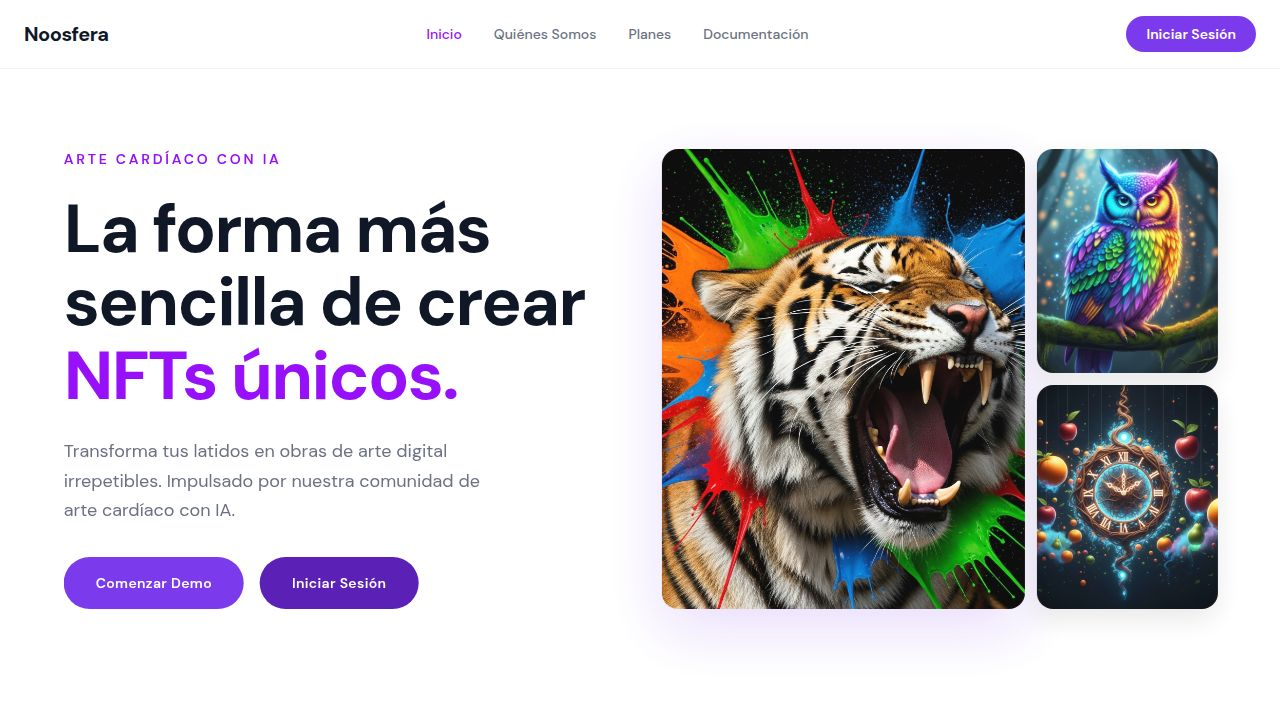
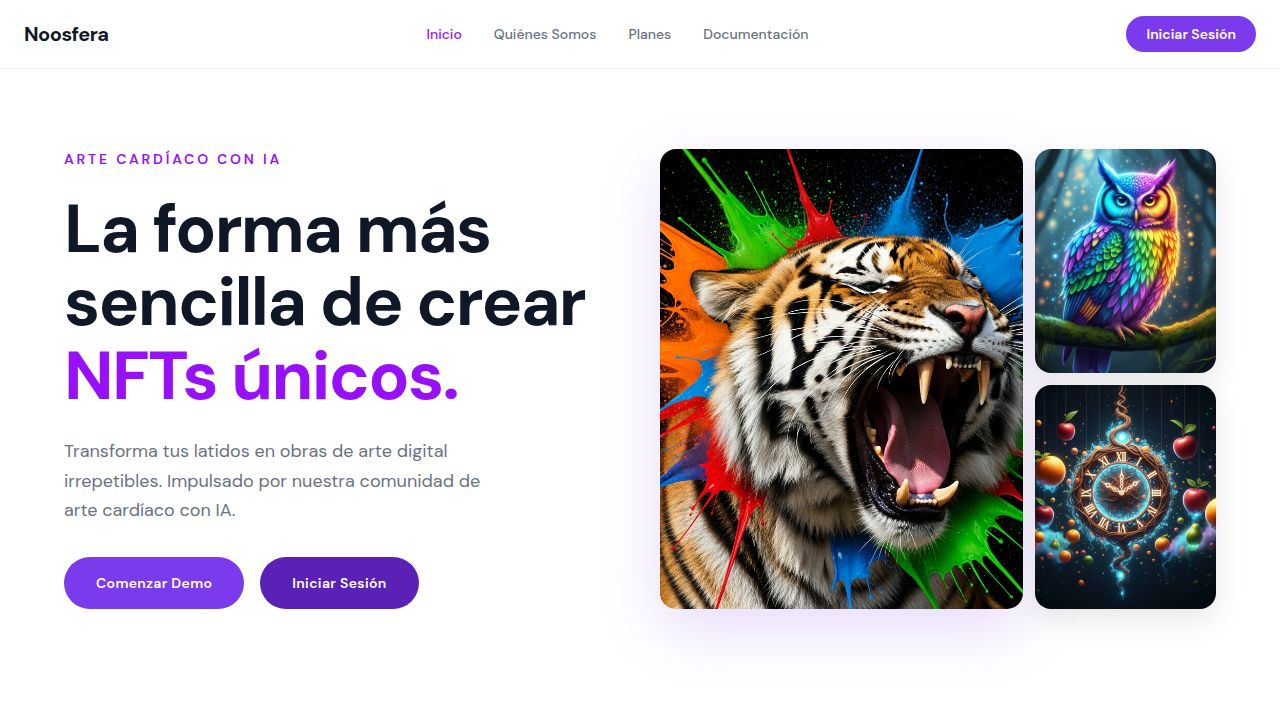
Update website with AI-generated castle image for digital art section
Replaces existing castle image with a new AI-generated castle image and updates metadata.

Replit-Commit-Author: Agent
Replit-Commit-Session-Id: 4e3b1bf3-8115-47f6-8ccc-9f803a6a7616
Replit-Commit-Checkpoint-Type: full_checkpoint
Replit-Commit-Event-Id: 6c476a48-887f-4164-a147-26e18ba8501f
Replit-Commit-Screenshot-Url: https://storage.googleapis.com/screenshot-production-us-central1/127ad3c0-3e0e-4129-a934-e1fc86b09cef/4e3b1bf3-8115-47f6-8ccc-9f803a6a7616/fozgGb6
Replit-Helium-Checkpoint-Created: true

diff --git a/artifacts/noosfera/src/components/recent-creations.tsx b/artifacts/noosfera/src/components/recent-creations.tsx
@@ -199,8 +199,8 @@ export function RecentCreations() {
               outline: "4px solid rgba(124,58,237,0.07)",
             }}>
               <img
-                src="/images/nft-castle-2.png"
-                alt="Arte digital castillo"
+                src="/images/nft-castle-ai.png"
+                alt="Castillo fantástico generado con IA"
                 style={{
                   width: "100%",
                   height: "100%",